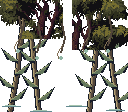
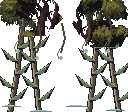
Q9F: replace visible rectangular foliage crops with stepped organic silhouettes

diff --git a/Tools/author_quality_outdoor.py b/Tools/author_quality_outdoor.py
@@ -7,7 +7,7 @@ from pathlib import Path
 import sys,math,json,hashlib,uuid
 ROOT=Path(__file__).resolve().parents[1]
 for path in [ROOT/'.visual-tools',ROOT.parent/'GloomBeanUnity/.visual-tools']:sys.path.insert(0,str(path))
-from PIL import Image,ImageDraw
+from PIL import Image,ImageDraw,ImageChops
 OUT=ROOT/'Assets/GloomBean/Resources/QualityBar';N=Image.Resampling.NEAREST
 INK='#181d29';DARK='#34302c';WOOD='#51453a';MID='#816f53';LIGHT='#b3a074';LEAF='#63765c';MOSS='#99a073'
 source=Image.open(OUT/'season_tree.png').convert('RGBA')
@@ -21,6 +21,14 @@ def foliage(image,box,xy,size,autumn=False):
    if g>r*.9 and g>b*1.2 and a:pixels.append((min(210,int(r*1.55+22)),min(145,int(g*.98+4)),min(100,int(b*.8+7)),a))
    else:pixels.append((r,g,b,a))
   leaf.putdata(pixels)
+ # Cut the sampled leaf texture to an irregular native-pixel crown. A rectangular
+ # source crop must not become a visible rectangular silhouette in the game.
+ mask=Image.new('L',leaf.size);md=ImageDraw.Draw(mask);w,h=leaf.size
+ points=[]
+ for i in range(48):
+  t=i*math.pi*2/48;r=.94+.045*math.sin(t*7)+.035*math.sin(t*13)
+  points.append((round((w-1)/2+math.cos(t)*(w-1)*.5*r),round((h-1)/2+math.sin(t)*(h-1)*.5*r)))
+ md.polygon(points,fill=255);leaf.putalpha(ImageChops.multiply(leaf.getchannel('A'),mask))
  image.alpha_composite(leaf,xy)
 def pear(d,x,y,size,green=True):
  w=size//2;d.line((x,y-5,x+2,y-8),fill=MID,width=2)

diff --git a/Documentation/QualityBarQ1/Q9E_REVIEW.md b/Documentation/QualityBarQ1/Q9E_REVIEW.md
@@ -1,0 +1,5 @@
+# Q9E native review — reject rectangular leaf fragments
+
+The outdoor warehouse motif was correctly removed. A full-size unseen Orchard frame then exposed the next defect: rectangular crop boundaries in the reused foliage fragments. Q9F masks each texture fragment to an irregular stepped native-pixel crown before composition, preserving actual source alpha and sharp pixels. No blurred edge, level-specific camera hack, new collider or gameplay change is used. The original Q9E image remains available; the crop defect is not called polish.
+
+All225cameras and the current13scenario native suite remain separate evidence. The supplied concept bar is still unmet; the revision is accepted only after another actual capture at the same location.
